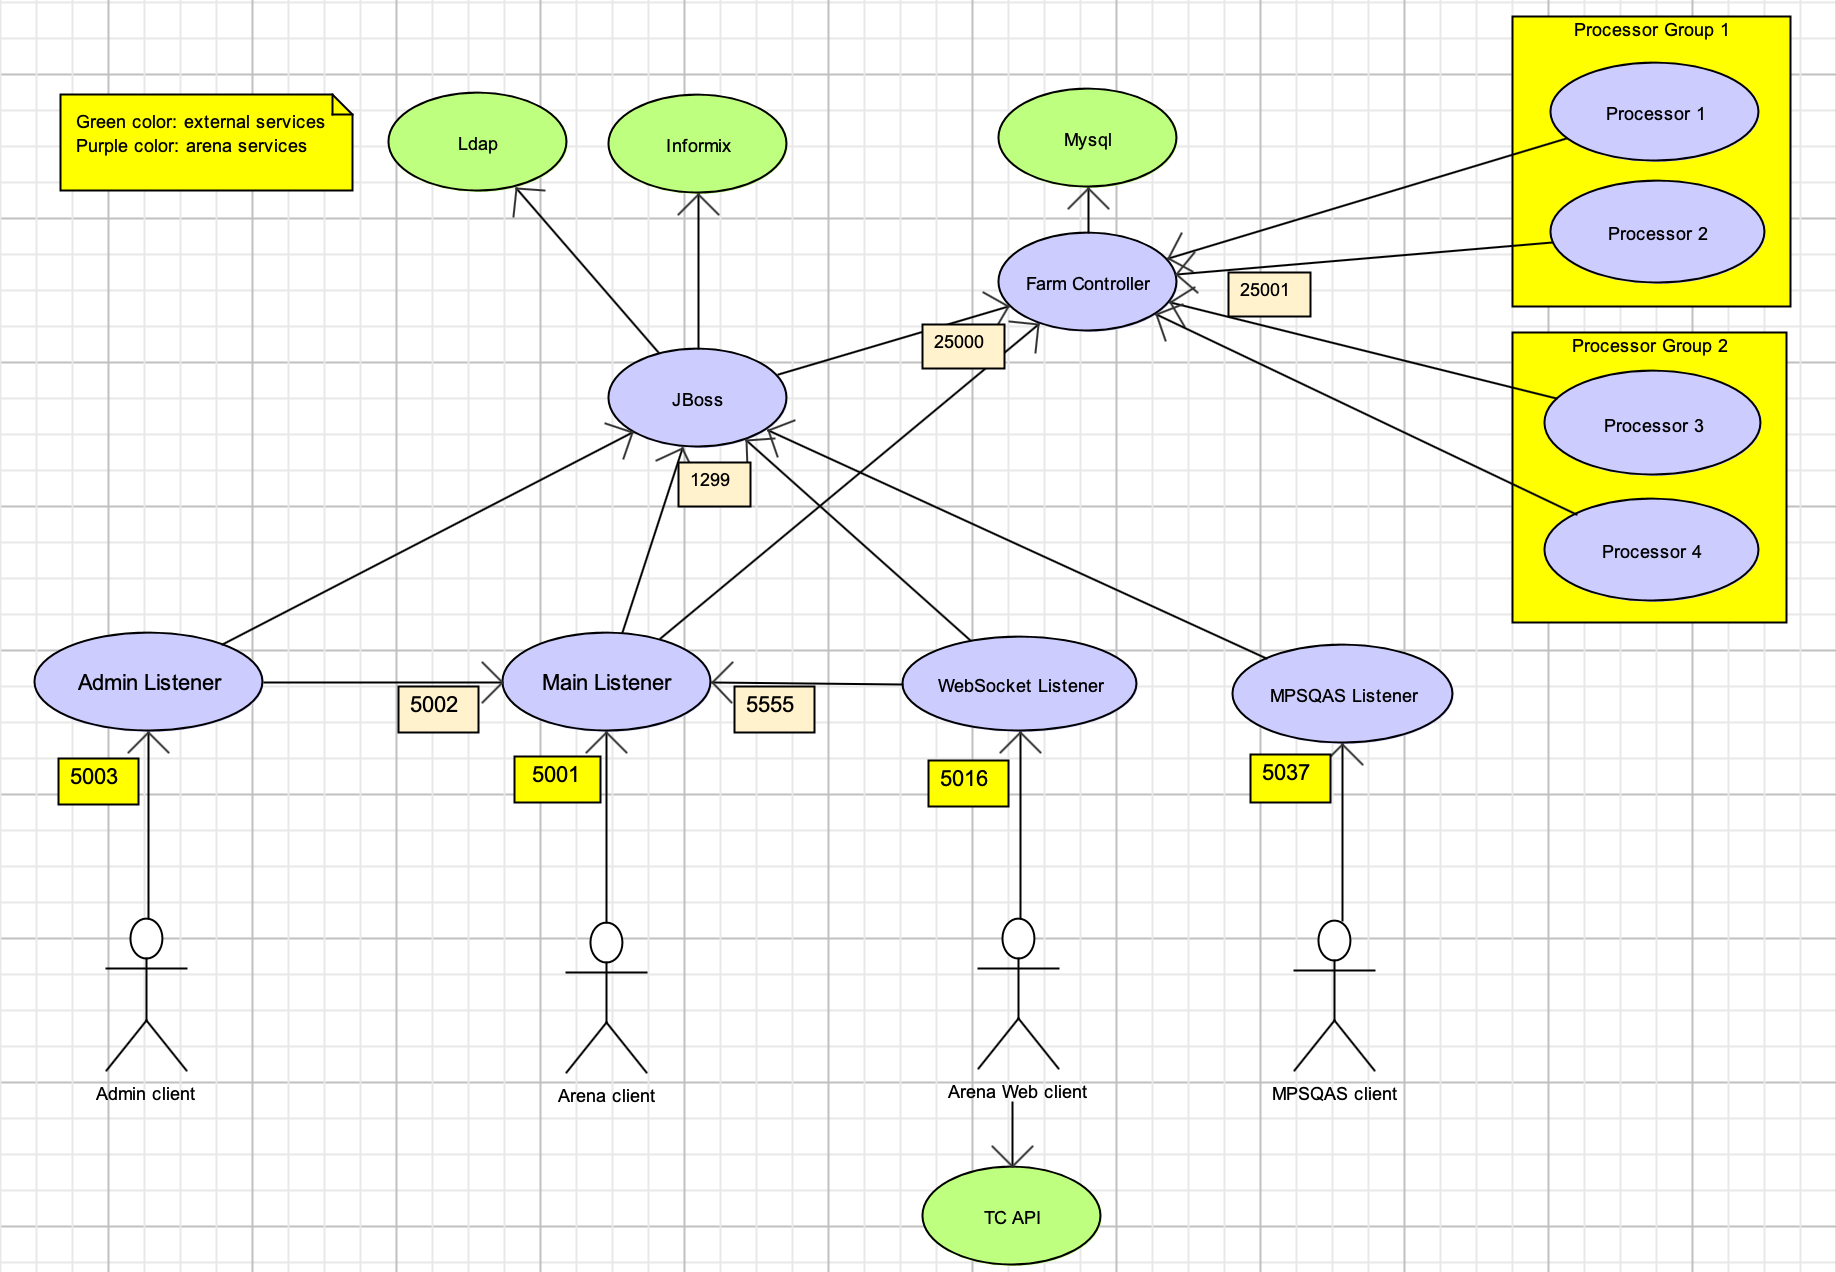
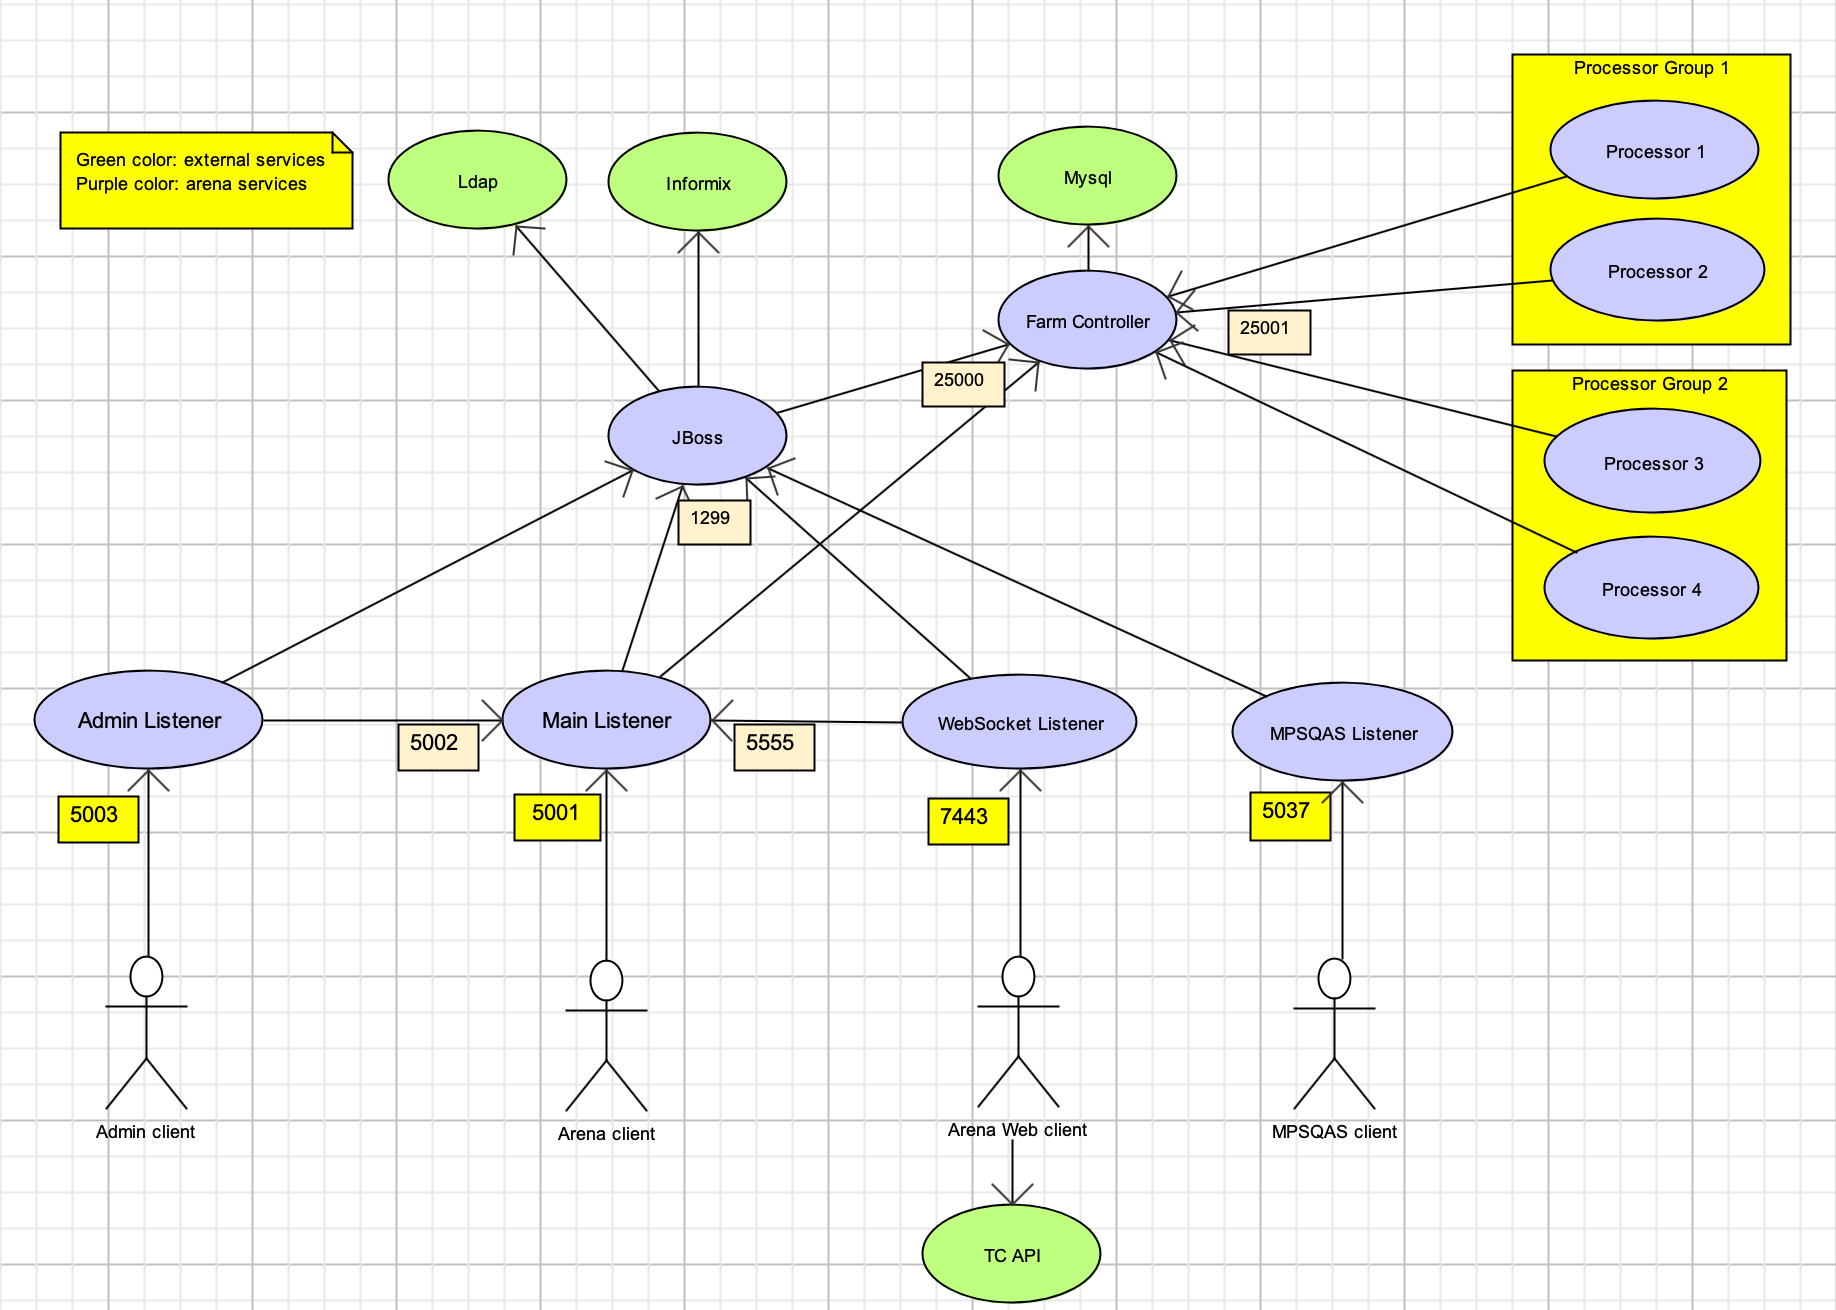
separate websocket container

diff --git a/docs/ArenaArchitecture.md b/docs/ArenaArchitecture.md
@@ -13,12 +13,12 @@ JBoss hosts EJBs which access Ldap/Informix. It uses 1299 port to handle EJB inv
 There are 4 listeners:
 
 - Main Listener handles arena client requests at 5001 port. **The 5001 port is exposed to external.**
+- MPSQAS Listener handles MPSQAS client requests at 5037 port.**The 5037 port is exposed to external.**
 - Admin Listener handles admin client requests at 5003 port.**The 5003 port is exposed to external.**
   - It will pass some of these admin requests to 5002 port of Main Listener . For example, assuming admin wants to ban the IP of an arena client, this admin request is first sent to Admin Listener on 5003 port, then passed to Main Listener on 5002 port, then Main Listener will configure itself to ban this IP from arena client.
-- WebSocket Listener handles arena web client requests at 5016 port.**The 5016 port is exposed to external.**
+- WebSocket Listener handles arena web client requests at 7443 port.**The 7443 port is exposed to external.**
   - It will pass all theses WebSocket requests to 5555 port of Main Listener, since it's a wrapper using WebSocket protocol.
   - Besides using WebSocket requests, the arena web client also sends some request to tc-api, like to get SRM schedule.
-- MPSQAS Listener handles MPSQAS client requests at 5037 port.**The 5037 port is exposed to external.**
 
 ### Farm Controller
 

diff --git a/docs/local-deploy.md b/docs/local-deploy.md
@@ -22,9 +22,10 @@ docker-compose up -d
 # arena-ldap              | Starting slapd: [  OK  ]
 # arena-informix          | *** Startup of informixoltp_tcp SUCCESS ***
 # mock-tc-api             | Mock tc-api listen on port 8081
-# arena-app               | Arena app startup complete
 # arena-controller        | Arena Farm Controller startup complete
 # arena-processor         | Arena Farm Processor startup complete
+# arena-app               | Arena app startup complete
+# arena-websocket         | WebSocket Server startup complete
 docker-compose logs -f
 ```
 
@@ -140,6 +141,8 @@ INSERT INTO informixoltp:informix.data_type_mapping (language_id, display_value,
 ### The Container Logs:
 
 Logs for `arena-app` container: `docker-compose logs -f arena-app`
+
+Logs for `arena-websocket` container:  `docker-compose logs -f arena-websocket`
 
 Logs for `arena-controller` container:  `docker-compose logs -f arena-controller`
 
